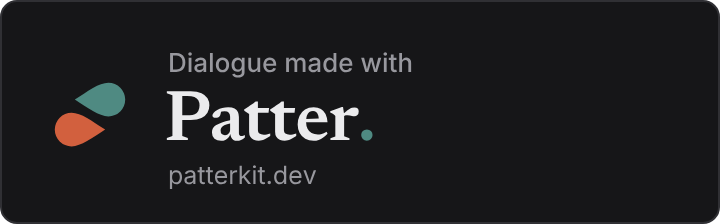
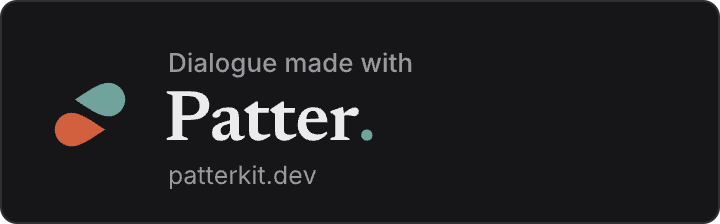
Branding: the wordmarks are outlined, and the dark badges take the brand's dark teal
The wordmarks (branding/wordmarks and the docs header's patterkit-wordmark*.svg) were live <text>, so the docs logo, shown as an image, rendered in Georgia for anyone without Newsreader installed. They're now curves cut from Newsreader's 72pt optical size at Medium, without kerning and at -2 tracking, the settings that reproduce Storylet Studio's wordmarks exactly. The dark made-with badges draw the drop in #6fa39c rather than #4f8a82 (regenerated by patterkit/branding/badges, light and one-colour byte-identical), PNGs and zip updated.

Changed region(s): [[0.0917, 0.375, 0.1833, 0.5312], [0.4889, 0.5625, 0.5194, 0.625]]

diff --git a/branding/README.md b/branding/README.md
@@ -38,9 +38,10 @@ The plugin icons badge the four engines for Patterplay, and the document icons c
 | Parchment | `#F1EBE0` | the PatterKit icon's ground |
 
 **On a dark ground** the teal lightens to `#6FA39C` and ember stays `#D2603E`; the wordmark's text becomes
-cream. That's the only dark-ground teal: `patterkit-wordmark-dark.svg` on the docs site and Patterpad's
-About box in its dark themes both use it. The document icons use darker and lighter teals for depth, and
-those stay inside the icons.
+cream. That's the only dark-ground teal: `patterkit-wordmark-dark.svg` on the docs site, Patterpad's About
+box in its dark themes, and the dark "made with" badges all use it. The document icons use darker and lighter
+teals for depth, and those stay inside the icons. (The older stage and paper badges on the website are kept,
+unlisted, for links that already point at them.)
 
 The brand colours are for the brand: the marks, the wordmarks, and the icons. The website and the apps take
 their interface colours from the family palette in app-shell (blue pencil for links and actions), and never
@@ -48,13 +49,15 @@ draw the mark in the interface accent.
 
 ## Wordmarks
 
-The mark, then the name in Newsreader 500 at 120 px, `letter-spacing: -2`, on an 820×220 canvas: the
-mark at `translate(40,30) scale(0.98)`, text from `x=232`, baseline `y=150`. The name is ink; in
-"PatterKit", "Kit" is teal.
+The mark, then the name in Newsreader Medium at 120 px, `letter-spacing: -2`: a single glyph at
+`translate(34,32) scale(1.52)`, or the two-drop mark at `translate(40,30) scale(0.98)`, and the name from
+`x=232` on baseline `y=150`. The name is ink; in "PatterKit", "Kit" is teal.
 
-The wordmarks here are still live `<text>`, so they render in Newsreader only where it's installed or
-loaded (the website and the apps load it). Storylet Studio's are converted to curves, and these should be
-too before they're offered as downloads.
+Every label is converted to curves, so no SVG here depends on a font being installed, which matters most
+where an SVG is shown as an image (the docs site's header logo is one). The outlines are Newsreader's 72pt
+optical size, the one a browser picks for Newsreader at 120 px, set without kerning, exactly as Storylet
+Studio's wordmarks are cut (`storylets/branding/fonts/README.md`). The website's
+`src/assets/patterkit-wordmark*.svg` are the same outlines.
 
 ## Where they're used
 
